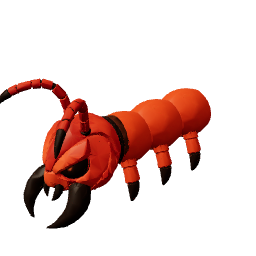
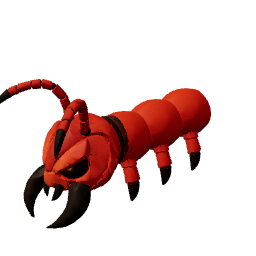
v1.096: regular centipede smaller with 12 segments; head and body tinted darker to match
Claude-Session: https://claude.ai/code/session_01U3VZgJwTwg83szoVmunMdz

diff --git a/index.html b/index.html
@@ -676,7 +676,7 @@ body:has(#shinies:not([hidden])) #tray,body:has(#settings:not([hidden])) #tray,b
     <div id="belt" class="off" aria-live="polite"><div class="bh"><small>Next</small><b id="beltW">Wave 1</b><em id="beltT"></em></div><div class="row"><div class="trk" id="beltRow"></div></div></div>
     <div id="stageTag" hidden></div>
     <div id="goldFlash" aria-hidden="true"></div>
-    <div id="ver" data-b="597">v1.095</div>
+    <div id="ver" data-b="598">v1.096</div>
     <div id="vign"></div>
     <div id="hurt"></div>
     <div id="hud" hidden>
@@ -3525,7 +3525,7 @@ function buildCentiModel() {
   const root = newBugRoot(), u = root.userData, B = u.body;
   const first = g => { let m = null; g.scene.traverse(n => { if (n.isMesh && !m) m = n; }); return m; };
   const sm = first(CENTI_M.seg), hm = first(CENTI_M.head), R = segRig(sm.geometry);
-  const segMat = std({ map: seamSafeMips(sm.material.map, sm.geometry), roughness: 0.5, color: new THREE.Color(0.85, 0.85, 0.85) }), headMat = std({ map: seamSafeMips(hm.material.map, hm.geometry), roughness: 0.5, color: new THREE.Color(0.85, 0.85, 0.85) });
+  const segMat = std({ map: seamSafeMips(sm.material.map, sm.geometry), roughness: 0.6, color: new THREE.Color(0.6, 0.47, 0.6) }), headMat = std({ map: seamSafeMips(hm.material.map, hm.geometry), roughness: 0.6, color: new THREE.Color(0.68, 0.68, 0.72) });   /* both pulled darker, the body toward the head's red */
   const bones = [new THREE.Bone()];
   R.hips.forEach(([x, y, z]) => { const b = new THREE.Bone(); b.position.set(x, y, z); b.userData = { yaw: 0, s: x < 0 ? -1 : 1 }; bones[0].add(b); bones.push(b); u.cLegs = (u.cLegs || []).concat(b); });   /* moved by their own little paddle, not the bug walk (which bends ring segments) */
   const sk = new THREE.SkinnedMesh(sm.geometry, segMat); sk.add(bones[0]); sk.bind(new THREE.Skeleton(bones)); sk.frustumCulled = false;
@@ -4245,7 +4245,7 @@ for (const t of ['ghop', 'gcenti', 'gstink', 'gmoth', 'gmantis']) BOSS_BUILD[t] 
 function getModel(t) {
   const pool = MODEL_POOL[t] ||= [];
   let q = pool.find(m => !m.visible); if (!q) { q = compactModel(MODEL_BUILD[t]()); pool.push(q); scene.add(q); }
-  q.visible = true; q.scale.setScalar({ mantis: 1.6, stink: 1.25, hopper: 1.25, centi: 1.15, moth: 1.1 }[t] || 1); return q;
+  q.visible = true; q.scale.setScalar({ mantis: 1.6, stink: 1.25, hopper: 1.25, centi: 0.85, moth: 1.1 }[t] || 1); return q;
 }
 function hideBug(b) { if (b.mesh) b.mesh.visible = false; if (b.mdl) { b.mdl.visible = false; b.mdl = null; } }
 function psnBubble(b, k) { FX.glow.spawn({ x: b.x + (Math.random() - 0.5) * 0.6 * k, y: bugY(b) + 0.4 * k + Math.random() * 0.3, z: b.z + (Math.random() - 0.5) * 0.6 * k, vy: 0.9, life: 0.7, s0: 0.12 + 0.06 * k, s1: 0.22 + 0.08 * k, c: [0.45, 1, 0.3], a0: 0.8 }); }
@@ -5259,7 +5259,7 @@ const BT = {
   bed:    { hp: 7,    spd: 3.8, gold: 1,   lives: 0.25, goo: [0.55, 0.12, 0.08], swarm: 12 },
   dung:   { hp: 90,   spd: 2.2, gold: 9,   lives: 1, ball: 75, goo: [0.3, 0.26, 0.2] },
   hopper: { hp: 40,   spd: 3.0, gold: 6,   lives: 1, goo: [0.45, 0.72, 0.2] },
-  centi:  { hp: 22,   spd: 4.0, gold: 2,   lives: 0.34, goo: [0.5, 0.24, 0.12], segs: 8 },
+  centi:  { hp: 15,   spd: 4.0, gold: 2,   lives: 0.23, goo: [0.5, 0.24, 0.12], segs: 12, gap: 0.46 },   /* twelve smaller segments: about the same total health and cake bite as the old eight */
   stink:  { hp: 110,  spd: 2.1, gold: 9,   lives: 1, armor: 2, goo: [0.45, 0.4, 0.22] },
   moth:   { hp: 28,   spd: 3.6, gold: 6,   lives: 1, fly: true, goo: [0.62, 0.56, 0.46] },
   mantis: { hp: 260,  spd: 1.9, gold: 16,  lives: 2, armor: 1, goo: [0.42, 0.76, 0.26] },

diff --git a/sw.js b/sw.js
@@ -1,5 +1,5 @@
 // offline support: the game page is fetched fresh when online (so updates show up), everything else is cached
-const CACHE = 'pest-panic-v1.095.597';
+const CACHE = 'pest-panic-v1.096.598';
 const CORE = ['./', 'index.html', 'manifest.webmanifest', 'icons/ext2-192.png', 'icons/ext2-512.png'];
 self.addEventListener('install', e => { e.waitUntil(caches.open(CACHE).then(c => c.addAll(CORE)).then(() => self.skipWaiting())); });
 self.addEventListener('activate', e => { e.waitUntil(caches.keys().then(ks => Promise.all(ks.filter(k => k !== CACHE).map(k => caches.delete(k)))).then(() => self.clients.claim())); });
